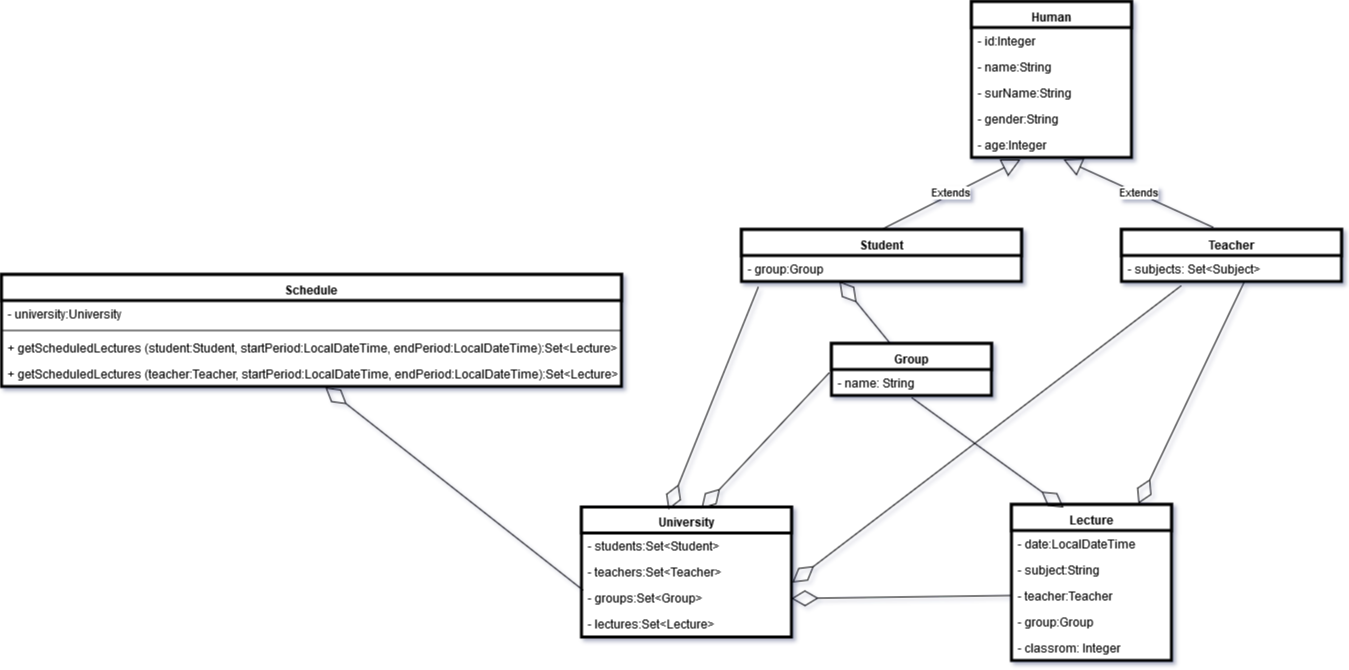
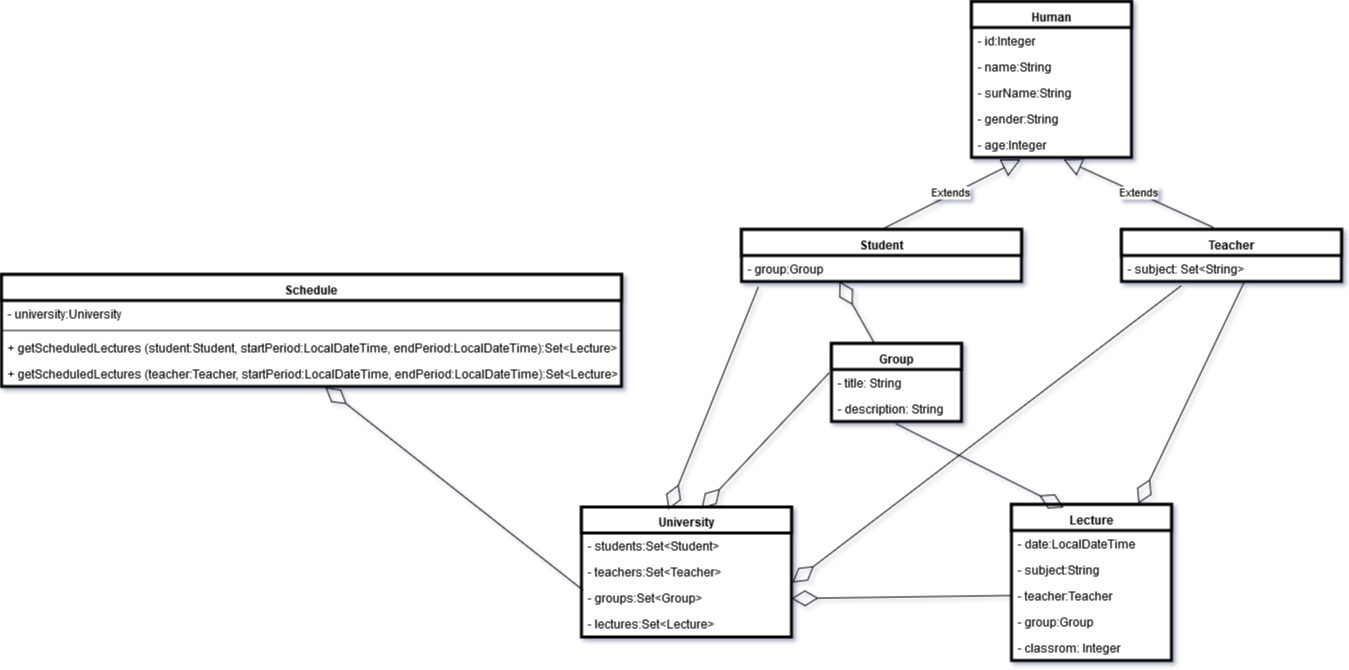
WIP: creating domain layer classes

diff --git a/src/main/java/ua/com/foxminded/domain/Lecture.java b/src/main/java/ua/com/foxminded/domain/Lecture.java
@@ -1,0 +1,57 @@
+package ua.com.foxminded.domain;
+
+import java.time.LocalDateTime;
+
+public class Lecture extends Model{
+    private static final long serialVersionUID = -5272574051292750329L;
+
+    private LocalDateTime date;
+    private String subject;
+    private Teacher teacher;
+    private Group group;
+    private Integer classroom;
+
+    public LocalDateTime getDate() {
+        return date;
+    }
+
+    public void setDate(LocalDateTime date) {
+        this.date = date;
+    }
+
+    public String getSubject() {
+        return subject;
+    }
+
+    public void setSubject(String subject) {
+        this.subject = subject;
+    }
+
+    public Teacher getTeacher() {
+        return teacher;
+    }
+
+    public void setTeacher(Teacher teacher) {
+        this.teacher = teacher;
+    }
+
+    public Group getGroup() {
+        return group;
+    }
+
+    public void setGroup(Group group) {
+        this.group = group;
+    }
+
+    public Integer getClassroom() {
+        return classroom;
+    }
+
+    public void setClassroom(Integer classroom) {
+        this.classroom = classroom;
+    }
+
+    private Lecture(){
+
+    }
+}

diff --git a/src/main/java/ua/com/foxminded/domain/University.java b/src/main/java/ua/com/foxminded/domain/University.java
@@ -1,0 +1,48 @@
+package ua.com.foxminded.domain;
+
+import java.util.Set;
+
+public class University extends Model{
+    private static final long serialVersionUID = 585873164846446845L;
+
+    private Set<Student> students;
+    private Set<Teacher> teachers;
+    private Set<Group> groups;
+    private Set<Lecture> lectures;
+
+    public Set<Student> getStudents() {
+        return students;
+    }
+
+    public void setStudents(Set<Student> students) {
+        this.students = students;
+    }
+
+    public Set<Teacher> getTeachers() {
+        return teachers;
+    }
+
+    public void setTeachers(Set<Teacher> teachers) {
+        this.teachers = teachers;
+    }
+
+    public Set<Group> getGroups() {
+        return groups;
+    }
+
+    public void setGroups(Set<Group> groups) {
+        this.groups = groups;
+    }
+
+    public Set<Lecture> getLectures() {
+        return lectures;
+    }
+
+    public void setLectures(Set<Lecture> lectures) {
+        this.lectures = lectures;
+    }
+
+    public University(){
+
+    }
+}

diff --git a/src/main/java/ua/com/foxminded/domain/Human.java b/src/main/java/ua/com/foxminded/domain/Human.java
@@ -1,0 +1,45 @@
+package ua.com.foxminded.domain;
+
+public class Human extends Model {
+
+    private String name;
+    private String surName;
+    private String gender;
+    private Integer age;
+
+    public Human() {
+
+    }
+
+    public String getName() {
+        return name;
+    }
+
+    public void setName(String name) {
+        this.name = name;
+    }
+
+    public String getSurName() {
+        return surName;
+    }
+
+    public void setSurName(String surName) {
+        this.surName = surName;
+    }
+
+    public String getGender() {
+        return gender;
+    }
+
+    public void setGender(String gender) {
+        this.gender = gender;
+    }
+
+    public Integer getAge() {
+        return age;
+    }
+
+    public void setAge(Integer age) {
+        this.age = age;
+    }
+}

diff --git a/src/main/java/ua/com/foxminded/domain/Group.java b/src/main/java/ua/com/foxminded/domain/Group.java
@@ -1,0 +1,28 @@
+package ua.com.foxminded.domain;
+
+public class Group extends Model {
+    private static final long serialVersionUID = 5093824429299325045L;
+
+    private String title;
+    private String description;
+
+    public String getTitle() {
+        return title;
+    }
+
+    public void setTitle(String title) {
+        this.title = title;
+    }
+
+    public String getDescription() {
+        return description;
+    }
+
+    public void setDescription(String description) {
+        this.description = description;
+    }
+
+    public Group() {
+
+    }
+}

diff --git a/src/main/java/ua/com/foxminded/domain/Model.java b/src/main/java/ua/com/foxminded/domain/Model.java
@@ -1,0 +1,24 @@
+package ua.com.foxminded.domain;
+
+import java.io.Serializable;
+
+public class Model implements Serializable {
+    private static final Long serialVersionUID = 4211763759080896241L;
+
+    private Long id;
+
+    public Model(Long id) {
+        this.id = id;
+    }
+
+    public Model() {
+    }
+
+    public Long getId() {
+        return id;
+    }
+
+    public void setId(Long id) {
+        this.id = id;
+    }
+}

diff --git a/src/main/java/ua/com/foxminded/domain/Teacher.java b/src/main/java/ua/com/foxminded/domain/Teacher.java
@@ -1,0 +1,12 @@
+package ua.com.foxminded.domain;
+
+import java.util.Set;
+
+public class Teacher extends Human{
+    private static final long serialVersionUID = 4046833979287915783L;
+    private Set<String> subject;
+
+    public Teacher(){
+
+    }
+}

diff --git a/src/main/java/ua/com/foxminded/domain/Student.java b/src/main/java/ua/com/foxminded/domain/Student.java
@@ -1,0 +1,10 @@
+package ua.com.foxminded.domain;
+
+public class Student extends Human{
+    private static final long serialVersionUID = 2734315932021732796L;
+    private Group group;
+
+    public Student(){
+
+    }
+}
